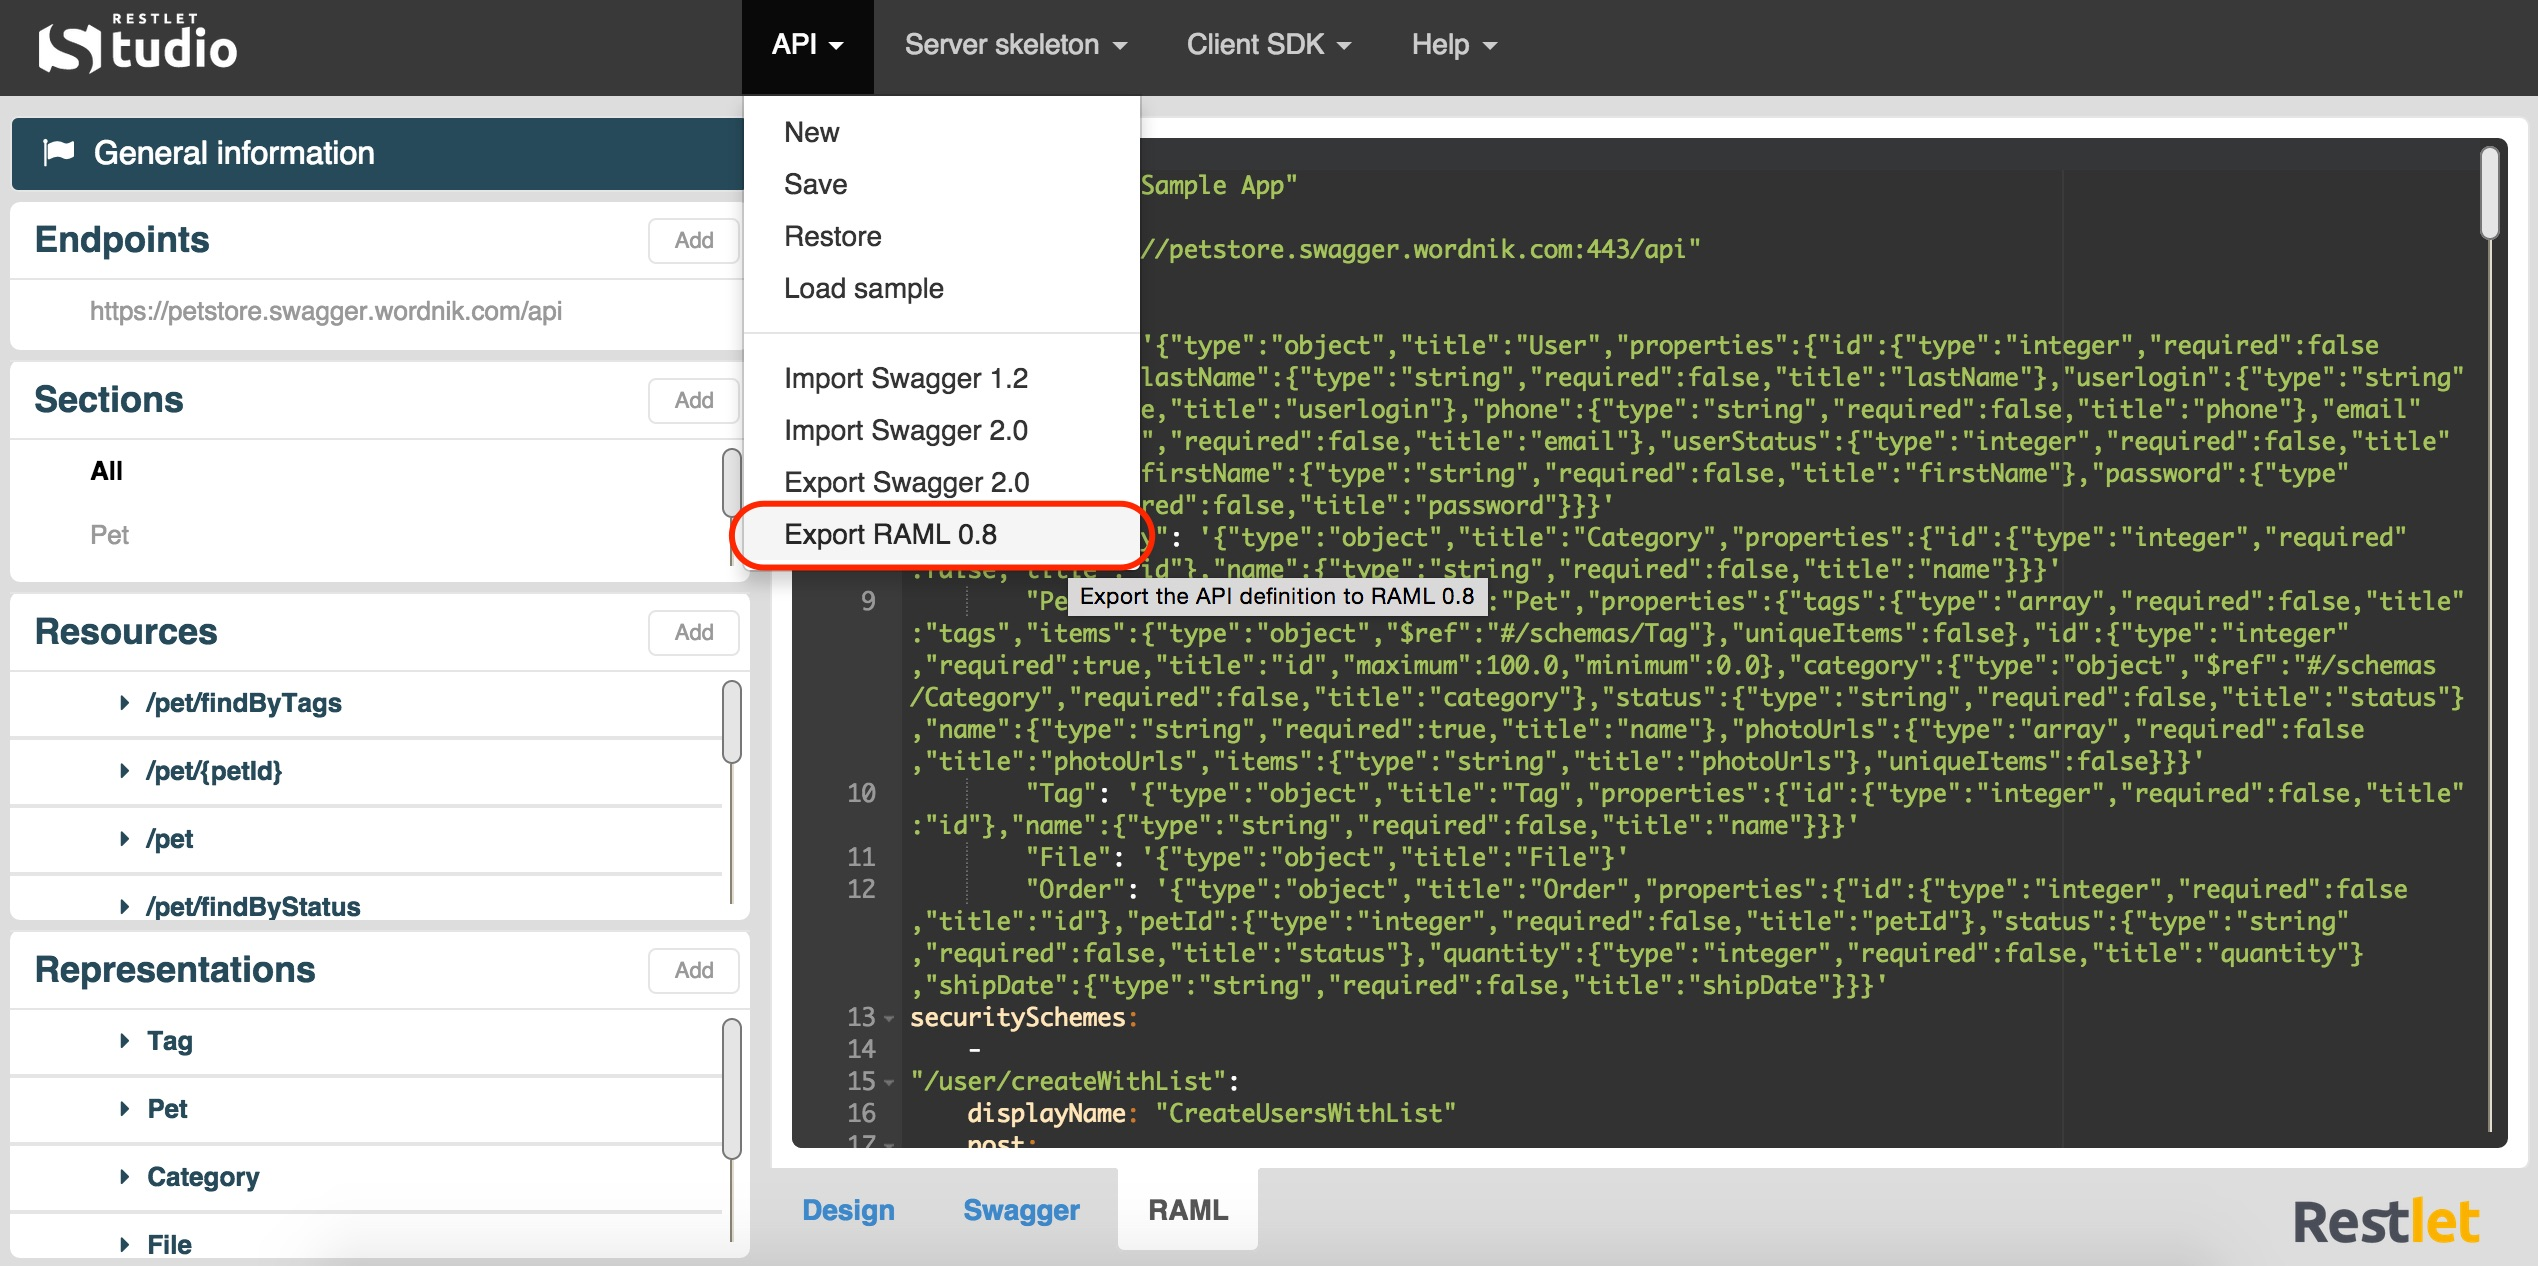
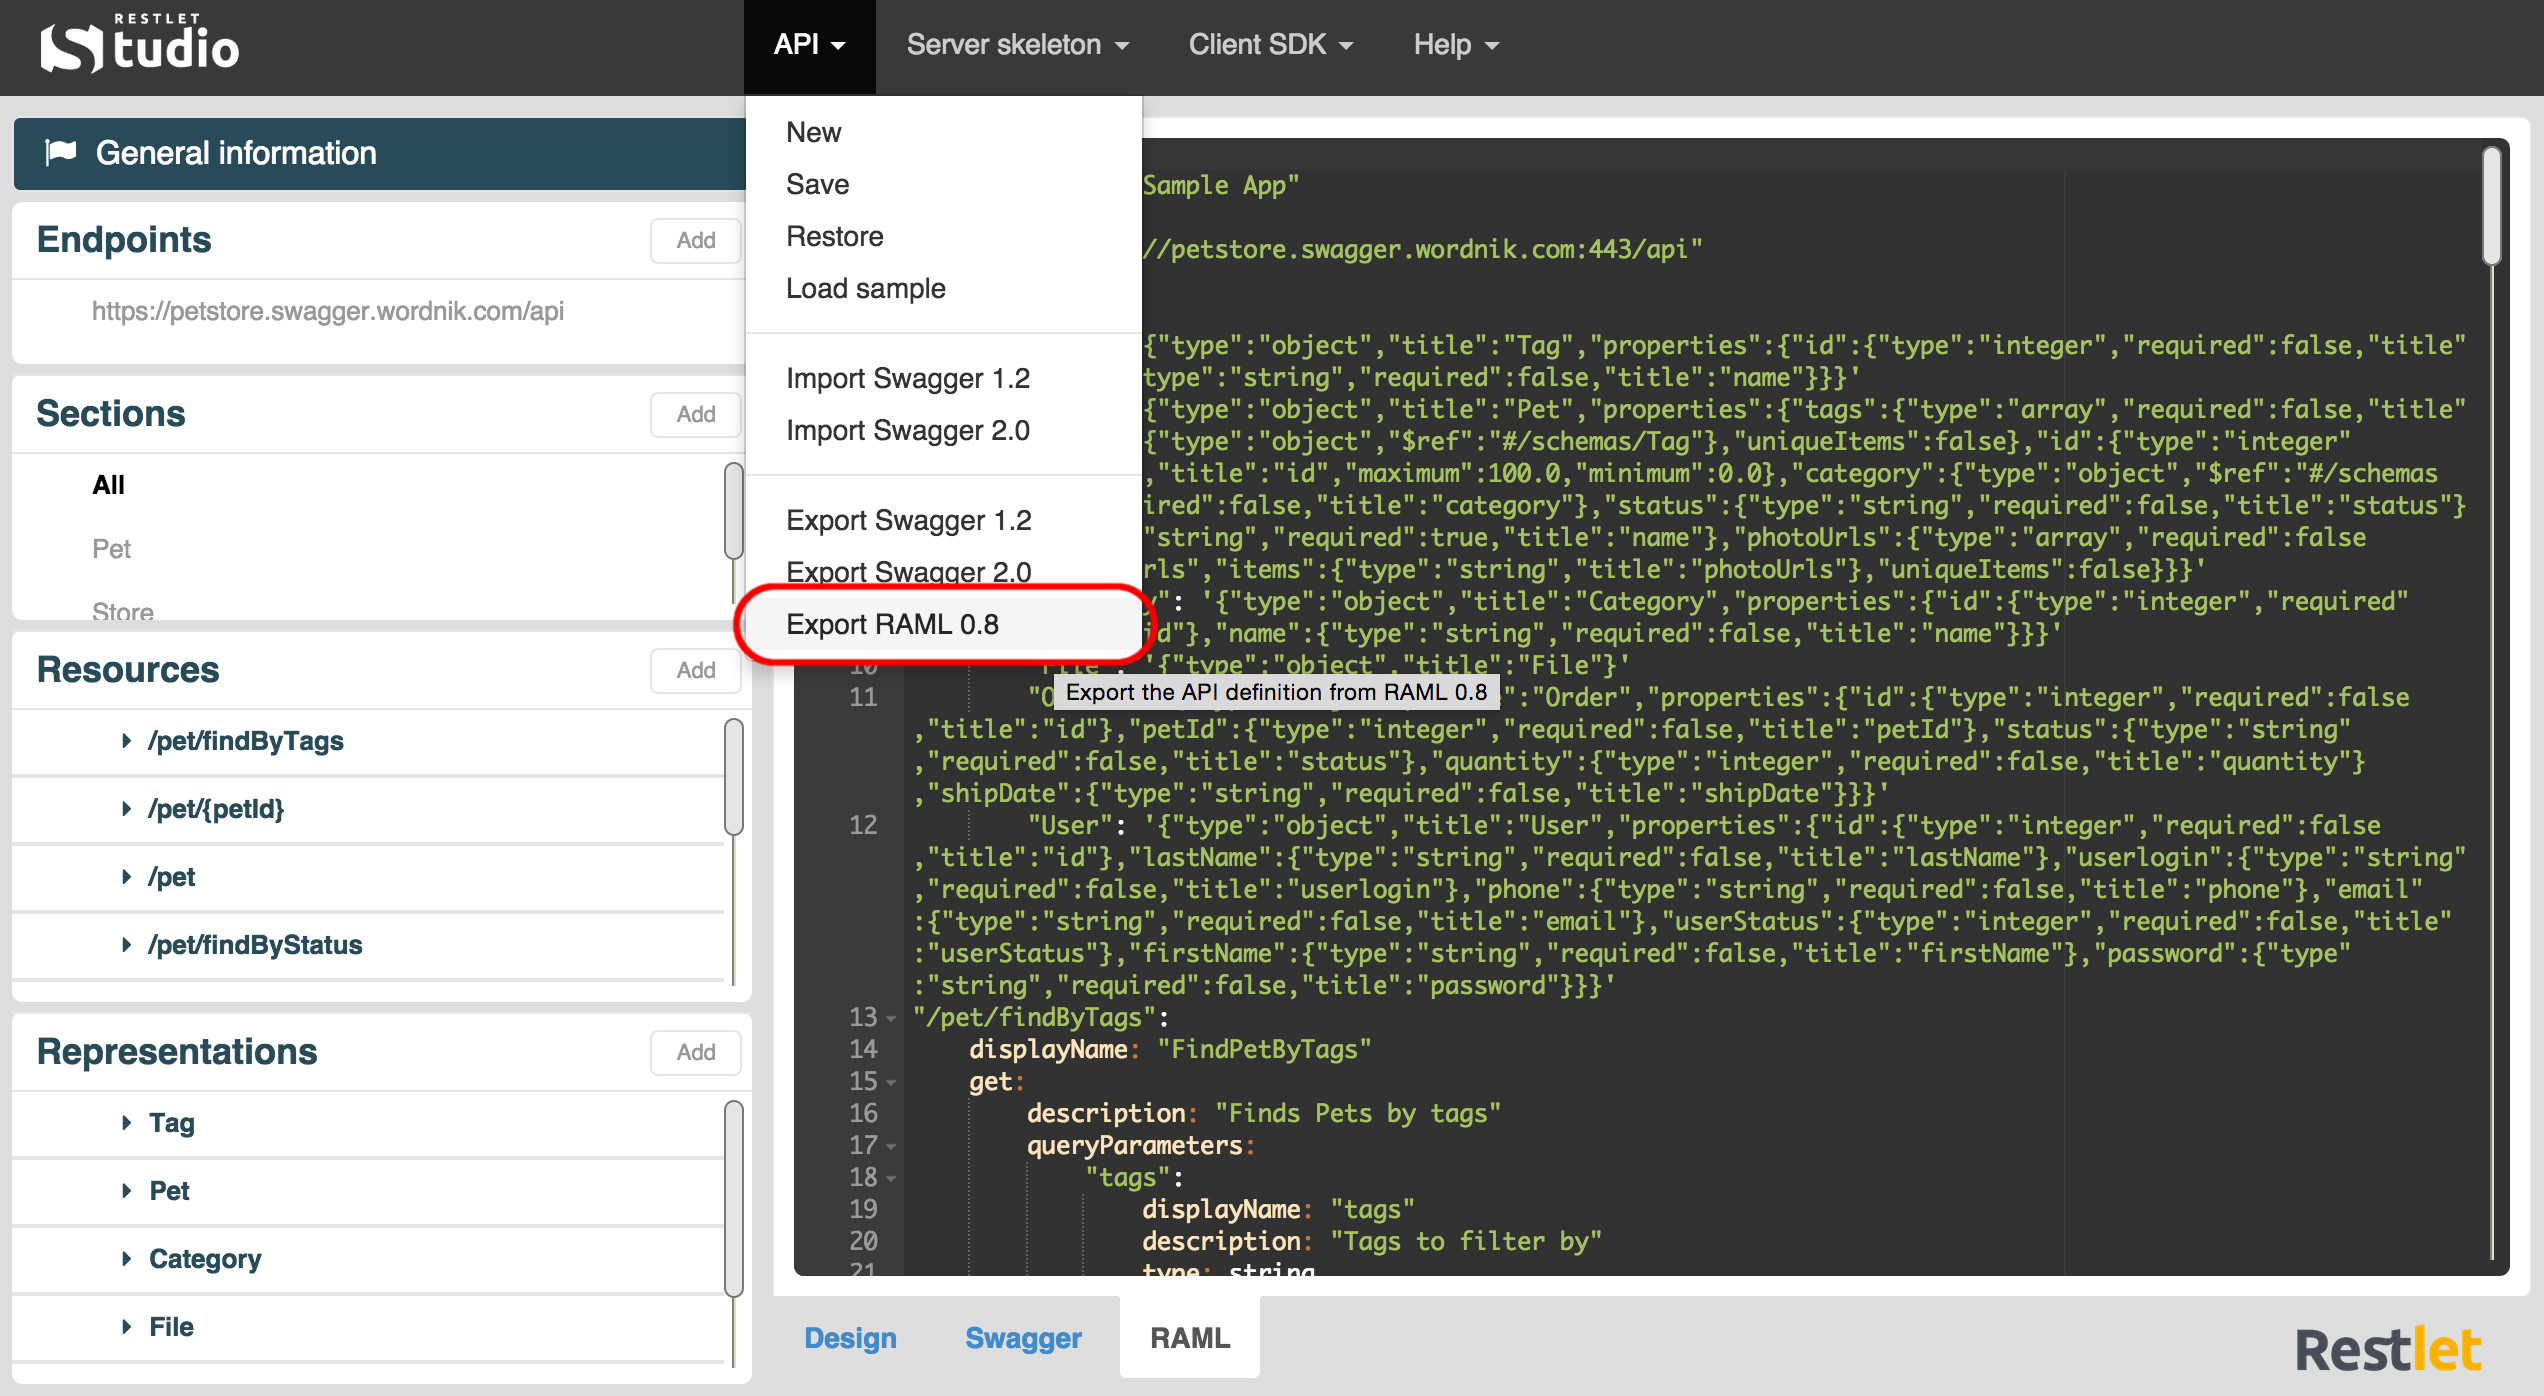
RS_Added Export Swagger 1.2

Changed region(s): [[0.0, 0.0, 1.0, 1.0], [0.4669, 0.955, 0.498, 0.9858], [0.2801, 0.5237, 0.3113, 0.5545]]

diff --git a/modules/com.restlet/tech-doc/restlet-studio/guide/03_translate/03_export-swagger.md b/modules/com.restlet/tech-doc/restlet-studio/guide/03_translate/03_export-swagger.md
@@ -13,10 +13,10 @@ Click on the **Swagger** tab. You can copy and paste its content or just visuali
 
 # Get your API definition in Swagger format
 
-Once you have designed your web API, you can export it in Swagger format.
+Once you have designed your web API, you can export it in Swagger 1.2 or 2.0 format.
 
-Click on the **API** menu and select **Export Swagger 2.0**.
+Click on the **API** menu and select **Export Swagger 1.2** or **Export Swagger 2.0**.
 
-![Export Swagger 2.0](images/export-swagger.jpg "Export Swagger 2.0")
+![Export Swagger 2.0](images/export-swagger-format.jpg "Export Swagger 2.0")
 
 Download the .json file that contains your API definition.
